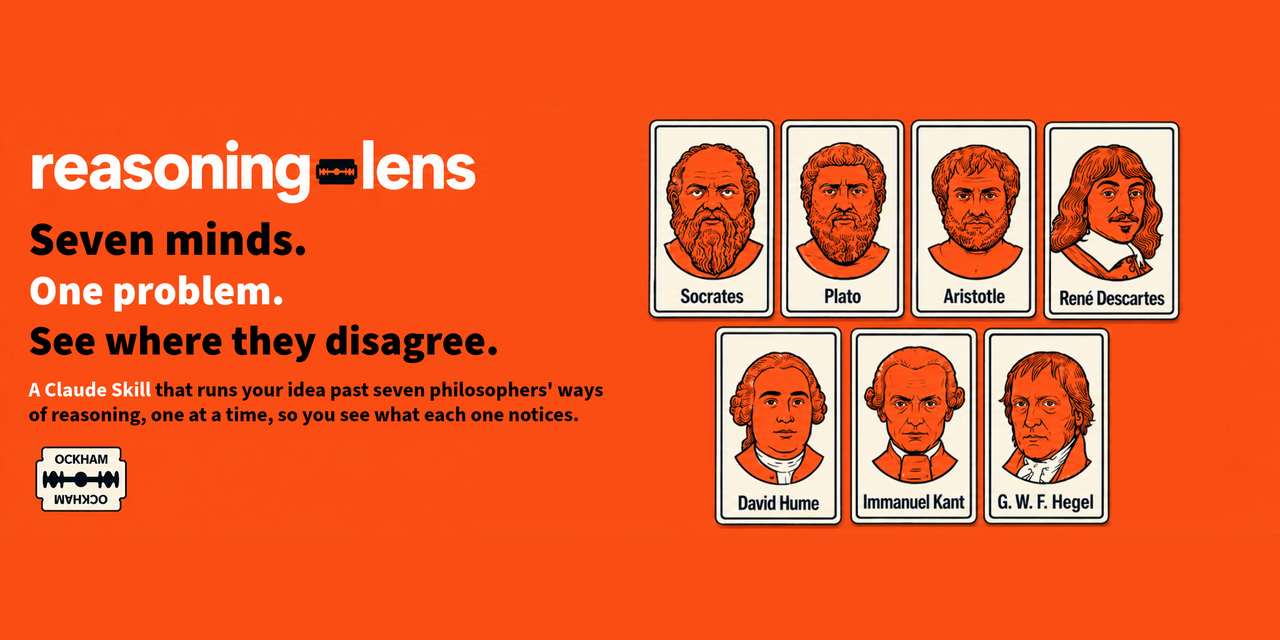
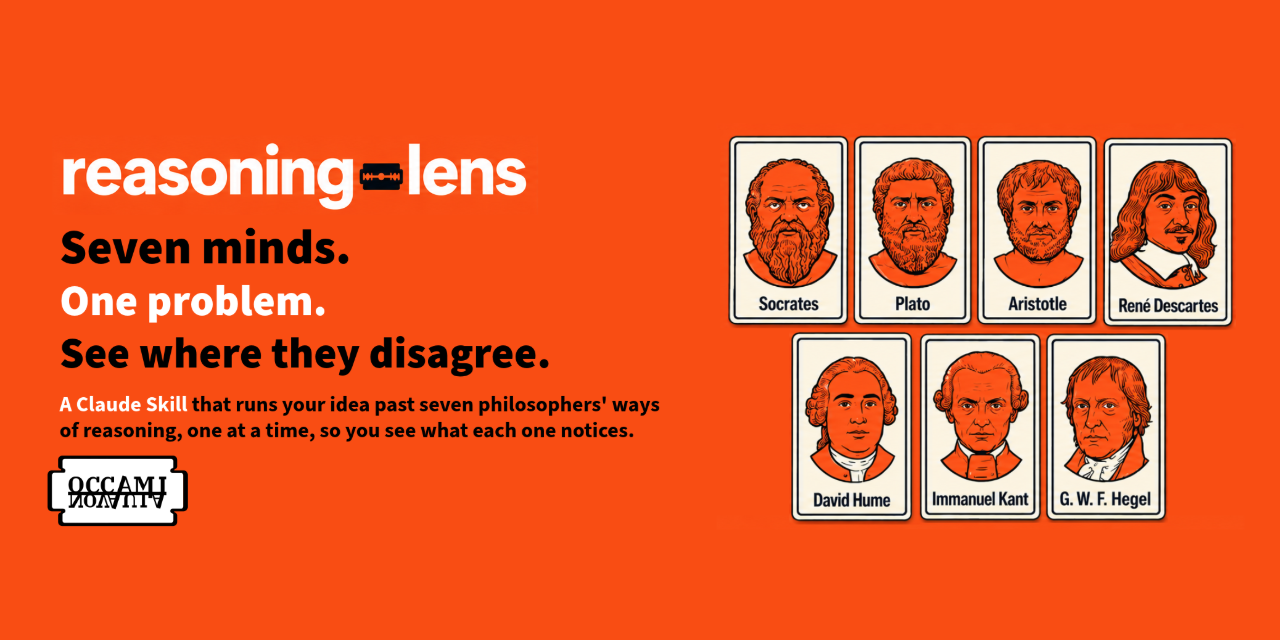
Update README branding assets

Changed region(s): [[0.0, 0.1875, 0.9688, 0.8438], [0.0, 0.2188, 0.4062, 0.3438]]

diff --git a/README.md b/README.md
@@ -1,6 +1,6 @@
 # reasoning-lens
 
-![reasoning-lens banner: Seven minds. One problem. See where they disagree.](assets/banner.png)
+![reasoning-lens banner](assets/banner.png)
 
 ![Version](https://img.shields.io/badge/version-0.2.0-orange)
 ![Status](https://img.shields.io/badge/status-experimental%2C%20evaluation%20pending-lightgrey)
@@ -134,3 +134,5 @@ See `CONTRIBUTING.md`. Design spec: [`docs/DESIGN.md`](docs/DESIGN.md).
 ## License
 
 MIT for the original work in this repo. See `LICENSE` and `NOTICE.md`.
+
+![OCCAMI](assets/footer.png)
